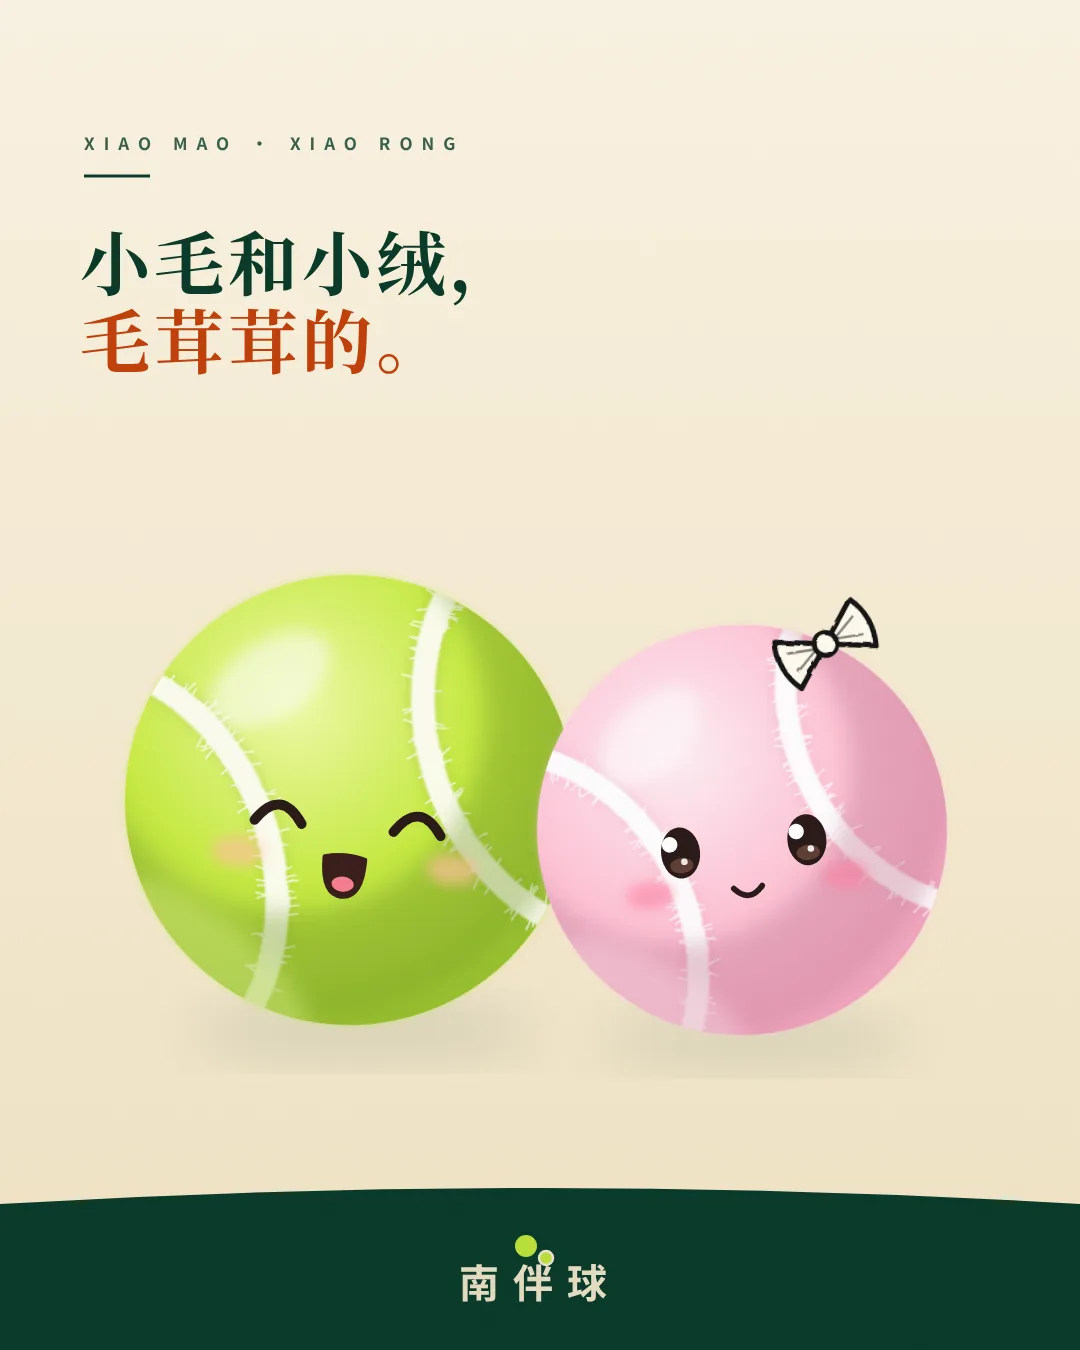
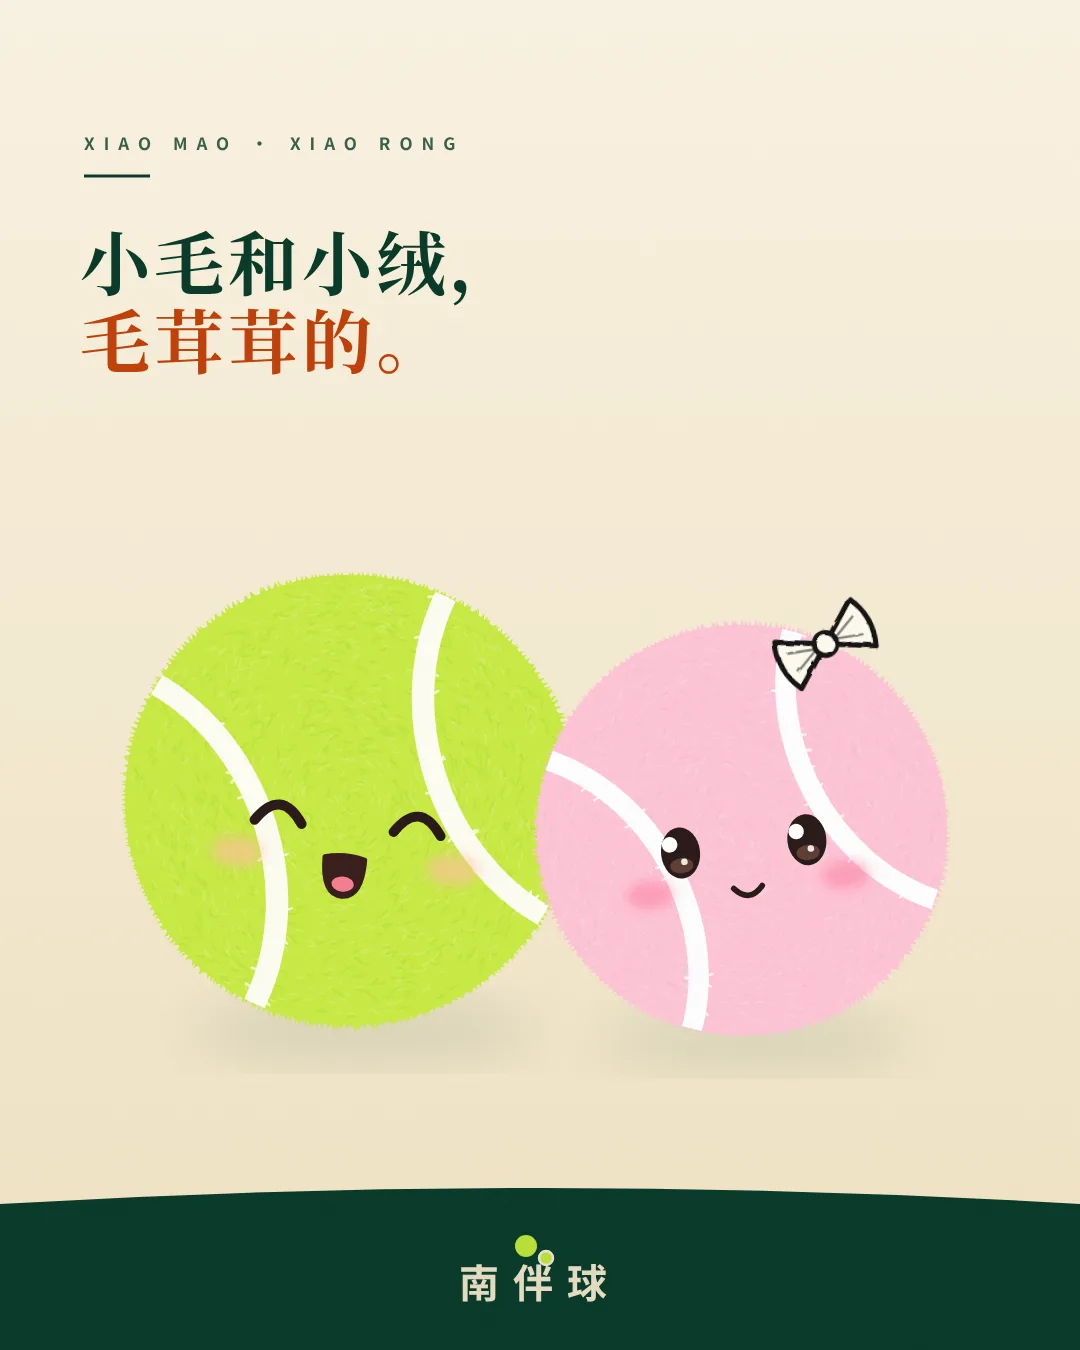
小毛小绒 v4.4：平面设计风纯色球，仅轮廓毛边表现绒感
Claude-Session: https://claude.ai/code/session_01Vg2RCbjYppFezKGzdwzEXB

diff --git a/marketing/mao4.py b/marketing/mao4.py
@@ -29,45 +29,43 @@ def _mix(a, b, t):
 
 
 def fuzzball(id, cx, cy, r, pal, seed=1, rot=-22, dens=1.0):
+    """平面设计风网球：纯色球身，无渐变无高光；绒感只来自
+    ① 轮廓上一圈短而疏的同色细绒（轮廓微微毛边） ② 球面上很淡的短绒纹 ③ 球缝两侧的几根细绒。"""
     R = random.Random(seed * 7919 + int(r))
     u = r / 100
-    lx, ly = -math.sqrt(.5), -math.sqrt(.5)          # 光从左上来
     mid, lo, hh = pal['mid'], pal['lo'], pal['hair_hi']
-    cols = [lo, _mix(lo, mid, .55), mid, _mix(mid, hh, .45), _mix(mid, hh, .8)]
-    # 1) 轮廓一圈细毛（受光处发亮、背光处偏深）
-    halo = [[] for _ in range(5)]
-    for _ in range(int(12 * r * dens)):
-        th = R.uniform(0, math.tau)
-        lit = math.cos(th) * lx + math.sin(th) * ly
-        t = max(0., min(1., .5 + .5 * lit + R.uniform(-.28, .28)))
-        c, s = math.cos(th), math.sin(th)
-        r0, r1 = r * R.uniform(.95, .985), r * R.uniform(1.014, 1.058)
-        bend = R.uniform(-.05, .05) * r
-        halo[min(4, int(t * 5))].append(
-            f'M{r0*c:.1f} {r0*s:.1f} Q{(r0+r1)/2*c - s*bend:.1f} {(r0+r1)/2*s + c*bend:.1f} {r1*c:.1f} {r1*s:.1f}')
-    halo_svg = ''.join(
-        f'<path d="{" ".join(p)}" fill="none" stroke="{cols[k]}" stroke-width="{max(.6, .0092*r):.2f}" stroke-linecap="round" opacity=".9"/>'
-        for k, p in enumerate(halo) if p)
-    # 2) 表面绒毛：几千根短弧线，亮的偏左上，暗的偏右下
-    buckets = {k: [] for k in ('lh', 'll', 'dh', 'dl')}
-    for _ in range(int(r * r / 6.5 * dens)):
-        rho = r * math.sqrt(R.random()) * .99
+    # 1) 轮廓毛边：同色细三角，长短带缓慢起伏
+    n = int(1.15 * r * dens) + 40
+    ph = [R.uniform(0, math.tau) for _ in range(3)]
+    fur = []
+    for i in range(n):
+        th = (i + R.uniform(-.4, .4)) / n * math.tau
+        wave = .5 + .25 * math.sin(3 * th + ph[0]) + .15 * math.sin(7 * th + ph[1]) + .1 * math.sin(13 * th + ph[2])
+        L = r * (.010 + .030 * wave * R.uniform(.55, 1.0))
+        lean = R.uniform(-.45, .45)
+        w = r * R.uniform(.008, .013)
+        c, s_ = math.cos(th), math.sin(th)
+        bx, by = (r - w) * c, (r - w) * s_
+        tx, ty = (r + L) * math.cos(th + lean * L / r), (r + L) * math.sin(th + lean * L / r)
+        px, py = -s_ * w, c * w
+        fur.append(f'M{bx + px:.1f} {by + py:.1f} L{tx:.1f} {ty:.1f} L{bx - px:.1f} {by - py:.1f}Z')
+    fur_svg = f'<path d="{" ".join(fur)}" fill="{mid}"/>'
+    # 2) 球面绒纹：很淡、很短、顺着球面走的小弧线
+    dark, light = _mix(mid, lo, .55), _mix(mid, hh, .7)
+    bk = {'d': [], 'l': []}
+    for _ in range(int(r * r / 38 * dens)):
+        rho = r * math.sqrt(R.random()) * .97
         th = R.uniform(0, math.tau)
         px, py = rho * math.cos(th), rho * math.sin(th)
-        lit = (px * lx + py * ly) / r
-        ang = th + math.pi / 2 + R.uniform(-1.0, 1.0)
-        L = R.uniform(.028, .07) * r
+        ang = th + math.pi / 2 + R.uniform(-.7, .7)
+        L = R.uniform(.022, .045) * r
         dx, dy = math.cos(ang) * L, math.sin(ang) * L
-        cv = R.uniform(-.3, .3)
-        seg = f'M{px:.1f} {py:.1f} q{dx/2 - dy*cv:.1f} {dy/2 + dx*cv:.1f} {dx:.1f} {dy:.1f}'
-        light = R.random() < .5 + .32 * lit
-        buckets[('l' if light else 'd') + ('h' if R.random() < .45 else 'l')].append(seg)
-    spec = {'lh': (hh, .27, .0085), 'll': (hh, .15, .006), 'dh': (lo, .24, .0085), 'dl': (lo, .14, .006)}
-    fiber_svg = ''.join(
-        f'<path d="{" ".join(v)}" fill="none" stroke="{spec[k][0]}" stroke-opacity="{spec[k][1]}" stroke-width="{max(.5, spec[k][2]*r):.2f}" stroke-linecap="round"/>'
-        for k, v in buckets.items() if v)
-
-    # 3) 球缝：奶白色带毛边 + 压出来的暗槽 + 边缘几根白绒
+        cv = R.uniform(-.35, .35)
+        bk['d' if R.random() < .5 else 'l'].append(f'M{px:.1f} {py:.1f} q{dx/2 - dy*cv:.1f} {dy/2 + dx*cv:.1f} {dx:.1f} {dy:.1f}')
+    sw = max(.6, .0075 * r)
+    tex = (f'<path d="{" ".join(bk["d"])}" fill="none" stroke="{dark}" stroke-opacity=".30" stroke-width="{sw:.2f}" stroke-linecap="round"/>'
+           f'<path d="{" ".join(bk["l"])}" fill="none" stroke="{light}" stroke-opacity=".30" stroke-width="{sw:.2f}" stroke-linecap="round"/>')
+    # 3) 球缝：平涂奶白带，两侧几根短绒
     def bez(t, sx):
         p0, p1, p2, p3 = (sx * -67, -74), (sx * -30, -34), (sx * -30, 34), (sx * -67, 74)
         mt = 1 - t
@@ -75,69 +73,25 @@ def fuzzball(id, cx, cy, r, pal, seed=1, rot=-22, dens=1.0):
         y = mt**3 * p0[1] + 3 * mt * mt * t * p1[1] + 3 * mt * t * t * p2[1] + t**3 * p3[1]
         dx = 3 * mt * mt * (p1[0] - p0[0]) + 6 * mt * t * (p2[0] - p1[0]) + 3 * t * t * (p3[0] - p2[0])
         dy = 3 * mt * mt * (p1[1] - p0[1]) + 6 * mt * t * (p2[1] - p1[1]) + 3 * t * t * (p3[1] - p2[1])
-        n = math.hypot(dx, dy)
-        return x, y, -dy / n, dx / n
+        m = math.hypot(dx, dy)
+        return x, y, -dy / m, dx / m
     seam_d = ('M-67 -74 C-30 -34 -30 34 -67 74', 'M67 -74 C30 -34 30 34 67 74')
     tick = []
     for sx in (1, -1):
-        for _ in range(int(46 * dens + 14)):
+        for _ in range(12):
             t = R.random()
             x, y, nx, ny = bez(t, -sx)
             side = R.choice((-1, 1))
-            o, l = 5.0 + R.uniform(-.8, .6), R.uniform(2.2, 5.5)
-            a = R.uniform(-.5, .5)
-            ex_, ey_ = nx * math.cos(a) - ny * math.sin(a), nx * math.sin(a) + ny * math.cos(a)
-            tick.append(f'M{x + nx*side*o:.1f} {y + ny*side*o:.1f} l{ex_*side*l:.1f} {ey_*side*l:.1f}')
-    seam_svg = (
-        f'<g transform="rotate({rot})">'
-        f'<g fill="none" stroke-linecap="round">'
-        f'<path d="{seam_d[0]} {seam_d[1]}" stroke="{lo}" stroke-width="15" opacity=".22" filter="url(#sb{id})"/>'
-        f'<path d="{seam_d[0]} {seam_d[1]}" stroke="{pal["seam"]}" stroke-width="10.5" opacity=".97" filter="url(#sf{id})"/>'
-        f'<path d="{" ".join(tick)}" stroke="{pal["seam"]}" stroke-width=".8" opacity=".75"/></g></g>')
-
-    defs = (
-        f'<defs>'
-        f'<radialGradient id="bg{id}" cx=".36" cy=".30" r=".82"><stop offset="0" stop-color="{pal["hi"]}"/><stop offset=".48" stop-color="{mid}"/><stop offset="1" stop-color="{lo}"/></radialGradient>'
-        f'<radialGradient id="fs{id}" cx=".34" cy=".28" r=".98"><stop offset=".58" stop-color="{lo}" stop-opacity="0"/><stop offset="1" stop-color="{_mix(lo, "#3A1020" if pal is PINK_P else "#1F3A00", .35)}" stop-opacity=".55"/></radialGradient>'
-        f'<radialGradient id="hl{id}" cx=".3" cy=".24" r=".5"><stop offset="0" stop-color="#fff" stop-opacity=".42"/><stop offset="1" stop-color="#fff" stop-opacity="0"/></radialGradient>'
-        f'<clipPath id="bc{id}"><circle r="{r}"/></clipPath>'
-        f'<filter id="sf{id}" x="-20%" y="-20%" width="140%" height="140%"><feTurbulence type="fractalNoise" baseFrequency=".09" numOctaves="2" seed="{seed}" result="n"/><feDisplacementMap in="SourceGraphic" in2="n" scale="1.2"/><feGaussianBlur stdDeviation=".45"/></filter>'
-        f'<filter id="sb{id}" x="-20%" y="-20%" width="140%" height="140%"><feGaussianBlur stdDeviation="2.2"/></filter>'
-        f'<filter id="ed{id}" x="-10%" y="-10%" width="120%" height="120%"><feTurbulence type="fractalNoise" baseFrequency="{.9/max(r,40)*40:.2f}" numOctaves="2" seed="{seed+3}" result="n"/><feDisplacementMap in="SourceGraphic" in2="n" scale="{max(1.2, .03*r):.1f}"/></filter>'
-        f'</defs>')
-    fr = min(1.0, max(.45, 110 / r))
-    ds = max(1.4, .026 * r)
-    felt = (
-        f'<filter id="fz{id}" x="-12%" y="-12%" width="124%" height="124%" color-interpolation-filters="sRGB">'
-        f'<feTurbulence type="fractalNoise" baseFrequency="{fr*.8:.2f}" numOctaves="3" seed="{seed}" result="n"/>'
-        f'<feDisplacementMap in="SourceGraphic" in2="n" scale="{ds:.1f}" xChannelSelector="R" yChannelSelector="G" result="d"/>'
-        f'<feGaussianBlur in="d" stdDeviation="{max(.6, .0065*r):.2f}" result="db"/>'
-        f'<feTurbulence type="fractalNoise" baseFrequency="{min(1.6, fr*2.6):.2f}" numOctaves="2" seed="{seed+5}" result="n2"/>'
-        f'<feDiffuseLighting in="n2" surfaceScale=".75" diffuseConstant="1.08" lighting-color="#fff" result="lit"><feDistantLight azimuth="235" elevation="58"/></feDiffuseLighting>'
-        f'<feGaussianBlur in="lit" stdDeviation=".45" result="lb"/><feComposite in="lb" in2="db" operator="in" result="li"/>'
-        f'<feBlend in="li" in2="db" mode="multiply"/>'
-        f'</filter>'
-        f'<filter id="gl{id}" x="-15%" y="-15%" width="130%" height="130%">'
-        f'<feTurbulence type="fractalNoise" baseFrequency="{fr*.9:.2f}" numOctaves="3" seed="{seed+9}" result="n"/>'
-        f'<feDisplacementMap in="SourceGraphic" in2="n" scale="{ds*1.9:.1f}" xChannelSelector="R" yChannelSelector="G"/>'
-        f'<feGaussianBlur stdDeviation="{max(1., .01*r):.2f}"/></filter>')
-    sh_c = _mix(lo, "#3A1020" if pal is PINK_P else "#1F3A00", .25)
-    rim = _mix(mid, hh, .5)
-    return (defs + f'<defs>{felt}'
-            f'<filter id="sm{id}" x="-5%" y="-5%" width="110%" height="110%"><feGaussianBlur stdDeviation="{max(.35, .002*r):.2f}"/></filter>'
-            f'<filter id="sg{id}" x="-20%" y="-20%" width="140%" height="140%"><feGaussianBlur stdDeviation="{.05*r:.1f}"/></filter>'
-            f'<filter id="sp{id}" x="-30%" y="-30%" width="160%" height="160%"><feGaussianBlur stdDeviation="{.035*r:.1f}"/></filter></defs>'
-            f'<g transform="translate({cx:.1f} {cy:.1f})">'
-            f'<circle r="{r*1.012:.1f}" fill="{mid}" opacity=".22" filter="url(#gl{id})"/>'
-            f'<g filter="url(#sm{id})"><circle r="{r}" fill="url(#bg{id})"/>'
-            f'<g clip-path="url(#bc{id})"><g transform="scale({u})">{seam_svg}</g>'
-            # 赛璐璐式柔和暗部：右下一弯月牙
-            f'<circle cx="{-.30*r:.1f}" cy="{-.34*r:.1f}" r="{1.12*r:.1f}" fill="none" stroke="{sh_c}" stroke-width="{.5*r:.1f}" opacity=".38" filter="url(#sg{id})" transform="translate({.0*r:.1f} 0)"/>'
-            # 左下反光边
-            f'<ellipse cx="{-.55*r:.1f}" cy="{.78*r:.1f}" rx="{.55*r:.1f}" ry="{.2*r:.1f}" fill="{rim}" opacity=".42" filter="url(#sg{id})" transform="rotate(35 {-.55*r:.1f} {.78*r:.1f})"/>'
-            # 左上高光
-            f'<ellipse cx="{-.40*r:.1f}" cy="{-.50*r:.1f}" rx="{.30*r:.1f}" ry="{.17*r:.1f}" fill="#fff" opacity=".55" filter="url(#sp{id})" transform="rotate(-38 {-.40*r:.1f} {-.50*r:.1f})"/>'
-            f'</g></g></g>')
+            o, l = 5.0, R.uniform(1.0, 2.2)
+            a_ = R.uniform(-.6, .6)
+            ex_, ey_ = nx * math.cos(a_) - ny * math.sin(a_), nx * math.sin(a_) + ny * math.cos(a_)
+            tick.append(f'M{x + nx*side*(o-1.2):.1f} {y + ny*side*(o-1.2):.1f} l{ex_*side*(l+1.2):.1f} {ey_*side*(l+1.2):.1f}')
+    seam_svg = (f'<g transform="rotate({rot})" fill="none" stroke-linecap="round">'
+                f'<path d="{seam_d[0]} {seam_d[1]}" stroke="{pal["seam"]}" stroke-width="10"/>'
+                f'<path d="{" ".join(tick)}" stroke="{pal["seam"]}" stroke-width="1.1" opacity=".8"/></g>')
+    return (f'<defs><clipPath id="bc{id}"><circle r="{r}"/></clipPath></defs>'
+            f'<g transform="translate({cx:.1f} {cy:.1f})">{fur_svg}<circle r="{r}" fill="{mid}"/>'
+            f'<g clip-path="url(#bc{id})">{tex}<g transform="scale({u})">{seam_svg}</g></g></g>')
 
 
 def face4(id, cx, cy, r, mood='smile', look=0, pal=LIME_P):

diff --git a/.claude/skills/nanbanqiu-poster/SKILL.md b/.claude/skills/nanbanqiu-poster/SKILL.md
@@ -65,7 +65,7 @@ def svg():
 - **字标圆点是荧光黄绿**：在黄绿 / 浅色大色块上看不见，底部加一条深色条再放 `wordmark`（50、58、67 踩过）。
 - **冷知识海报做法**（68–72）：先挖网球事实（只用真的，拿不准写「相传」），再用网球物件承载：球当钟面（70）、两球当 0（68）、球罐成分表（69）、球网剖面加标注线（71）、红土球印加粉笔圈（72）；画面里留 2–3 处可细看的小标注。
 - **批量出图节奏**：一次 heredoc 写 3–4 个 `pNN_*.py`，`build.py --only` 一次出，Read 逐张看，只改被发现的缺陷，再统一改张数（`sed` CLAUDE.md / 进度记录.md / 本文件）、`--check`、`site.mjs`、`site.js`、提交推送、`SendUserFile` 发图。
-- **角色「小毛」**：**用 v4（82–83）**，`marketing/mao4.py` 的 `figure4(id,cx,cy,r,pose,mood,char,gy=…)`：动漫赛璐璐风光滑球（渐变 + 柔和暗部 + 高光 + 反光，球缝带细绒；不要毛须、不要噪点颗粒，用户都说不自然 / 疙瘩；小毛头顶不要毛）、婴儿比例大眼睛（无睫毛）、嫩棉花糖粉 `PINK_P`、手脚更短；合照见 p82。**v3（78–81，`mao3.py`）球面太光滑像蛋、睫毛和比例被用户说奇怪，别再用**；以下姿势 / 笔触规则 v3、v4 通用。v3 说明：`figure3(id,cx,cy,r,pose,mood,char)`；两个角色：**小毛（男，`char='mao'`，头顶一小撮毛，嘴硬心软）/ 小绒（女，`char='rong'`，**一颗粉色的球**（`mao3.ball_c` + `PINK`）+ 奶油白小蝴蝶结 + 睫毛 + 玫瑰色腮红，话多守时；不要再画马尾、裙子）**，是好朋友；小绒用名字姿势时左右镜像（动作手在左，不和马尾打架）；合照用 dict 姿势 + `gy` 定地面线（见 p80）；：写实荧光球 + 33–36 同款脸（`mao2.face2`，眼睛用黑色）+ **只用黑色手写细线画手脚**（`pen` 双笔触 + `rough2` 抖动；手是小圆圈，脚是小椭圆球鞋，脚下一笔地面线）。**必须放浅色底**（奶油 `#FBF4E3→#F1E3C4`），黑线才看得见；浅色底字标圆点看不见，底部做深绿弧形条再放字标；标题用深绿 + `#C2410C`。pose=wave/cheer/plead/racket/wow/sorry/sleep；mood=smile/happy/cheer/wow/plead/wink/sweat/sleep；坐、抓绳等特殊姿势用 `pen/hand3/shoe3` 自己拼（见 p79）。v1（73–75 冷面脸）用户说「看起来不舒服、奇怪」，v2（76–77 黄绿粗手脚）用户说「球长手长脚奇怪」，**都别再用**。脸用 `face3`（face2 + 细眉毛 + 小绒睫毛 + 睡着的鼻泡）；细节：鞋带、求约的闪光星、歪头。口吻：陈述句、句号收尾、无感叹号。
+- **角色「小毛」**：**用 v4（82–83）**，`marketing/mao4.py` 的 `figure4(id,cx,cy,r,pose,mood,char,gy=…)`：平面设计风纯色球（无高光、无渐变、无暗部；绒感 = 轮廓同色细毛边 + 极淡短绒纹 + 球缝细绒；不要外圈毛须、噪点颗粒、高光，用户都说不自然 / 疙瘩 / 像苹果；小毛头顶不要毛）、婴儿比例大眼睛（无睫毛）、嫩棉花糖粉 `PINK_P`、手脚更短；合照见 p82。**v3（78–81，`mao3.py`）球面太光滑像蛋、睫毛和比例被用户说奇怪，别再用**；以下姿势 / 笔触规则 v3、v4 通用。v3 说明：`figure3(id,cx,cy,r,pose,mood,char)`；两个角色：**小毛（男，`char='mao'`，头顶一小撮毛，嘴硬心软）/ 小绒（女，`char='rong'`，**一颗粉色的球**（`mao3.ball_c` + `PINK`）+ 奶油白小蝴蝶结 + 睫毛 + 玫瑰色腮红，话多守时；不要再画马尾、裙子）**，是好朋友；小绒用名字姿势时左右镜像（动作手在左，不和马尾打架）；合照用 dict 姿势 + `gy` 定地面线（见 p80）；：写实荧光球 + 33–36 同款脸（`mao2.face2`，眼睛用黑色）+ **只用黑色手写细线画手脚**（`pen` 双笔触 + `rough2` 抖动；手是小圆圈，脚是小椭圆球鞋，脚下一笔地面线）。**必须放浅色底**（奶油 `#FBF4E3→#F1E3C4`），黑线才看得见；浅色底字标圆点看不见，底部做深绿弧形条再放字标；标题用深绿 + `#C2410C`。pose=wave/cheer/plead/racket/wow/sorry/sleep；mood=smile/happy/cheer/wow/plead/wink/sweat/sleep；坐、抓绳等特殊姿势用 `pen/hand3/shoe3` 自己拼（见 p79）。v1（73–75 冷面脸）用户说「看起来不舒服、奇怪」，v2（76–77 黄绿粗手脚）用户说「球长手长脚奇怪」，**都别再用**。脸用 `face3`（face2 + 细眉毛 + 小绒睫毛 + 睡着的鼻泡）；细节：鞋带、求约的闪光星、歪头。口吻：陈述句、句号收尾、无感叹号。
 - 常量 `W H SERIF SANS C`，以及 `math` `random` 已导入。
 
 ## 经验和坑

diff --git a/.claude/skills/nanbanqiu-poster/品味手册.md b/.claude/skills/nanbanqiu-poster/品味手册.md
@@ -93,3 +93,4 @@
 - 10-29 v4 首版毛须边缘被说不自然、小毛头顶三根毛画蛇添足 → 改毡面质感（边缘软、不画毛须），小毛头上不加东西。
 - 10-29 毡面颗粒太粗「疙疙瘩瘩没美感」→ 颗粒要细、起伏小（surfaceScale≈.75，频率高并轻微模糊），像天鹅绒。
 - 10-29 毡面颗粒再被说「疙疙瘩瘩」→ 球面走动漫赛璐璐风：光滑渐变 + 柔和暗部 + 左上高光 + 左下反光，不加噪点颗粒；绒感只靠球缝上的几根细绒和很淡的边缘光晕。
+- 10-29 高光 / 渐变「像苹果」→ 要平面设计风：纯色球身，无高光无渐变无暗部；绒感只靠轮廓同色细毛边 + 极淡短绒纹 + 球缝几根细绒。人没有高光，球也不要有。
